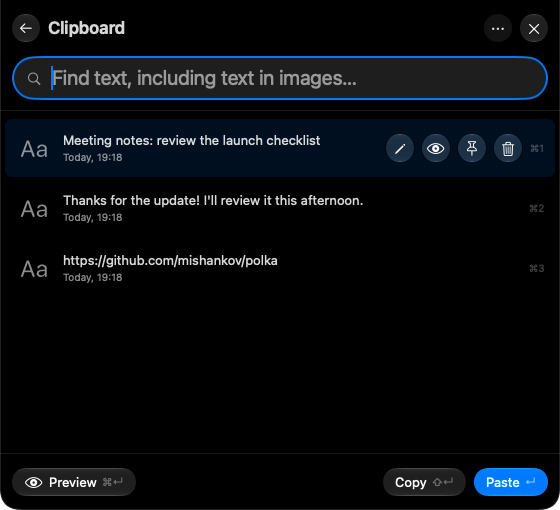
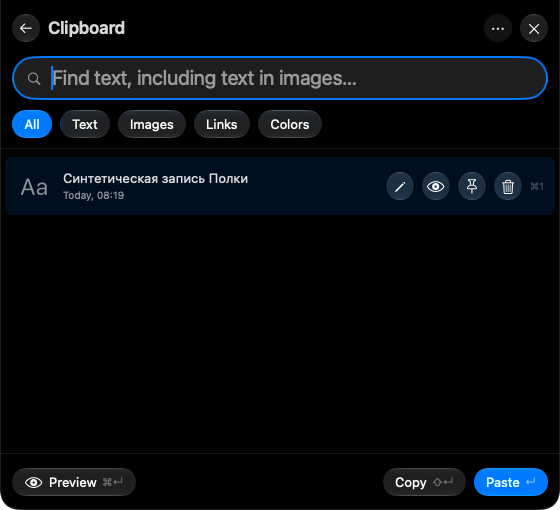
Prepare Polka 0.11.0 release (#107)

Changed region(s): [[0.0, 0.2059, 1.0, 0.4412], [0.0304, 0.5, 0.5161, 0.5588], [0.9411, 0.5, 0.9714, 0.5294]]

diff --git a/docs/validation.md b/docs/validation.md
@@ -14,6 +14,9 @@
 | История и сниппеты | Шифрование по независимому known-answer, атомарные записи, concurrent writes, retention, пределы, pin/edit/delete/clear, ошибка чтения и записи  |
 | Текстовый просмотр | Валидные и невалидные цвета, альфа и HSL, точные исходные байты, инертный HTML/XML, 1 МБ текста, горизонтальная прокрутка и восстановление позиции |
 | Встроенные приложения | Независимые переключатели, defaults и restart, фильтрация каталога/alias/content/show-all, запрет команд и tray, OCR pause/resume, shortcut conflict, сохранение draft/browse/files и отдельных sync/retention-настроек |
+| Фильтры истории    | Типы All/Text/Images/Links/Colors, сочетания ⌘⌃1–5, совместный поиск, точные байты копирования и восстановление фильтра после закрытия |
+| Снимки экрана      | Выбор и изменение области, аннотации и undo/redo, экспорт PNG, IME и раскладки; desktop-фазы проверяют настоящие окна редактора и несколько дисплеев |
+| Состояние системы  | Независимые ошибки и устаревшие показания, сброс сетевых счётчиков, графики, остановка опроса при закрытии/сне и восстановление без смены фокуса |
 | Сеть               | Native-to-native TLS 1.3, сертификаты, pairing, pause/restart/forget, штампы и конфликтующие изменения                                           |
 | Процессы           | Пределы сообщений и времени, отмена, эскалация завершения, reap, короткие ответы, повторный запуск и закрытый stdin                              |
 | UI-модель          | Общие button/key actions, IME, повтор клавиш, русская раскладка, disabled/busy/dialog guards, черновики и устаревшие результаты                  |
@@ -23,7 +26,7 @@
 
 Swift-тесты находятся в `native-app/Tests/PolkaCoreTests`, `PolkaPlatformTests` и `PolkaUITests`. Тесты `tools/Tests/PolkaToolsTests` проверяют сборку, упаковку, подпись, workflow и изоляцию драйверов. Эталонные запросы поставляются в `tests/fixtures/search-cases.json.gz` и сверяются с `PolkaCoreProbe`; для проверки не нужны сеть или сторонняя реализация приложения.
 
-`tools/Sources/PolkaTools/Desktop.swift` использует синтетические данные, отдельный временный профиль и общий desktop lock из `DesktopLock`. Проверяется настоящее окно, а не только состояние модели: Escape, ⌘W, ⌘H, 20 циклов Hide/reopen, сохранение черновиков, Undo/Redo и возвращение клавиатурного фокуса. При ошибке фокуса отчёт сохраняет причину закрытия и ревизию показа. Отчёты и снимки находятся в `artifacts/desktop/native-smoke/`. Settings fixture открывает настройки через ⌘, с русской раскладкой, проходит sidebar стрелками и переключатели через Tab/Пробел, проверяет повтор Space, отключение всех четырёх приложений, запрет прямого открытия и восстановление черновика. Startup-сценарии проверяют выход при ожидании шифрования и открытом объяснении разрешений. Scroll fixture использует 300 приложений и реальные wheel events; тесты кэша проверяют изменения запроса, каталога, истории, статистики и даты.
+`tools/Sources/PolkaTools/Desktop.swift` использует синтетические данные, отдельный временный профиль и общий desktop lock из `DesktopLock`. Проверяется настоящее окно, а не только состояние модели: Escape, ⌘W, ⌘H, 20 циклов Hide/reopen, сохранение черновиков, Undo/Redo и возвращение клавиатурного фокуса. При ошибке фокуса отчёт сохраняет причину закрытия и ревизию показа. Отчёты и снимки находятся в `artifacts/desktop/native-smoke/`. Settings fixture открывает настройки через ⌘, с русской раскладкой, проходит sidebar стрелками и переключатели через Tab/Пробел, проверяет повтор Space, отключение всех шести встроенных приложений, запрет прямого открытия и восстановление черновика. Startup-сценарии проверяют выход при ожидании шифрования и открытом объяснении разрешений. Scroll fixture использует 300 приложений и реальные wheel events; тесты кэша проверяют изменения запроса, каталога, истории, статистики и даты.
 
 `tools/Sources/PolkaTools/UpdateSmoke.swift` запускает реальные подписанные fixture bundles, временный сертификат, Ed25519-ключ и localhost appcast. Проверяет сохранение синтетической зашифрованной истории, отказ от повреждённого архива, удержание готового обновления, обычный выход и явную установку. Не обращается к пользовательскому Keychain или production-профилю и не подтверждает сохранение системных TCC-разрешений.
 
@@ -48,7 +51,7 @@ Settings-проверки выполняются отдельным обязат
 
 Оба мышиных драйвера отправляют CGEvent sessionTap и требуют уже выданного Accessibility. Тест не запрашивает доступ и завершается ошибкой, если его нет. Используются только синтетические файлы, временный профиль и общий lock. Диагностика находится в `artifacts/desktop/native-file-drop/`.
 
-Hosted CI выполняет source tests, оптимизированный извлечённый пакет с native smoke и updater на трёх отдельных macOS runners. Итоговый check требует успеха всех трёх jobs. Реальные CGEvent file drags остаются явной локальной проверкой: hosted CI не обещает доступ Accessibility и не считает их проверенными.
+Hosted CI выполняет XCTest приложения с coverage и эталонами, тесты Swift-инструментария и упаковку на трёх независимых macOS runners. Упаковочный job проверяет оптимизированный извлечённый пакет с native smoke и настоящее обновление с перезапуском. Итоговый check требует успеха всех трёх jobs и проверяет бюджет выполнения: цель — пять минут, жёсткий предел — десять минут для самого долгого macOS job без времени очереди. Реальные CGEvent file drags остаются явной локальной проверкой: hosted CI не обещает доступ Accessibility и не считает их проверенными.
 
 ## Ручная приёмка
 

diff --git a/.agents/skills/release-project/SKILL.md b/.agents/skills/release-project/SKILL.md
@@ -19,7 +19,7 @@ Paths and commands below are relative to the repository root.
 
 ## Audit documentation and write bilingual notes
 
-Compare changes since the baseline release and current behavior with `README.md` and the relevant `docs/` files, especially `macos.md`, `data.md`, `architecture.md`, and `validation.md`. Correct stale feature claims, UI labels, shortcuts, defaults, supported platforms, installation steps, local data behavior, signing requirements, and validation claims. This is a native Swift, SwiftUI and AppKit app for macOS 27+ Apple silicon. The Swift package in `tools/` runs development, release and test tooling through `./polka`. There is no separate promotional site workflow.
+Compare changes since the baseline release and current behavior with `README.md` and the relevant `docs/` files, especially `macos.md`, `data.md`, `architecture.md`, and `validation.md`. Correct stale feature claims, UI labels, shortcuts, defaults, supported platforms, installation steps, local data behavior, signing requirements, and validation claims. This is a native Swift, SwiftUI and AppKit app for macOS 27+ Apple silicon. The Swift package in `tools/` runs development, release and test tooling through `./polka`. The bilingual promotional site lives in `promo-site/`; `.github/workflows/pages.yml` validates it on relevant PRs and deploys it to GitHub Pages on every push to `master`. Audit its product and installation claims when relevant; the app release workflow does not publish the site.
 
 Inspect screenshots actually referenced by the documentation. Refresh stale images when needed, using real UI captures and a disposable profile (`POLKA_PROFILE=/absolute/test/profile`). Keep private clipboard contents and credentials out of screenshots. Do not invent a screenshot or website refresh requirement if none exists. Report anything that could not be verified.
 

diff --git a/README.md b/README.md
@@ -6,7 +6,7 @@ Polka is a native macOS utility that puts an app launcher, clipboard history, re
 
 **macOS 27+ · Apple silicon · English and Russian · [MIT license](LICENSE)**
 
-[Download the latest release](https://github.com/mishankov/polka/releases/latest) · [Report a bug or suggest a feature](https://github.com/mishankov/polka/issues)
+[Website](https://mishankov.github.io/polka/) · [Download the latest release](https://github.com/mishankov/polka/releases/latest) · [Report a bug or suggest a feature](https://github.com/mishankov/polka/issues)
 
 ![Polka's launcher with search and built-in tools](docs/screenshots/launcher.png)
 
